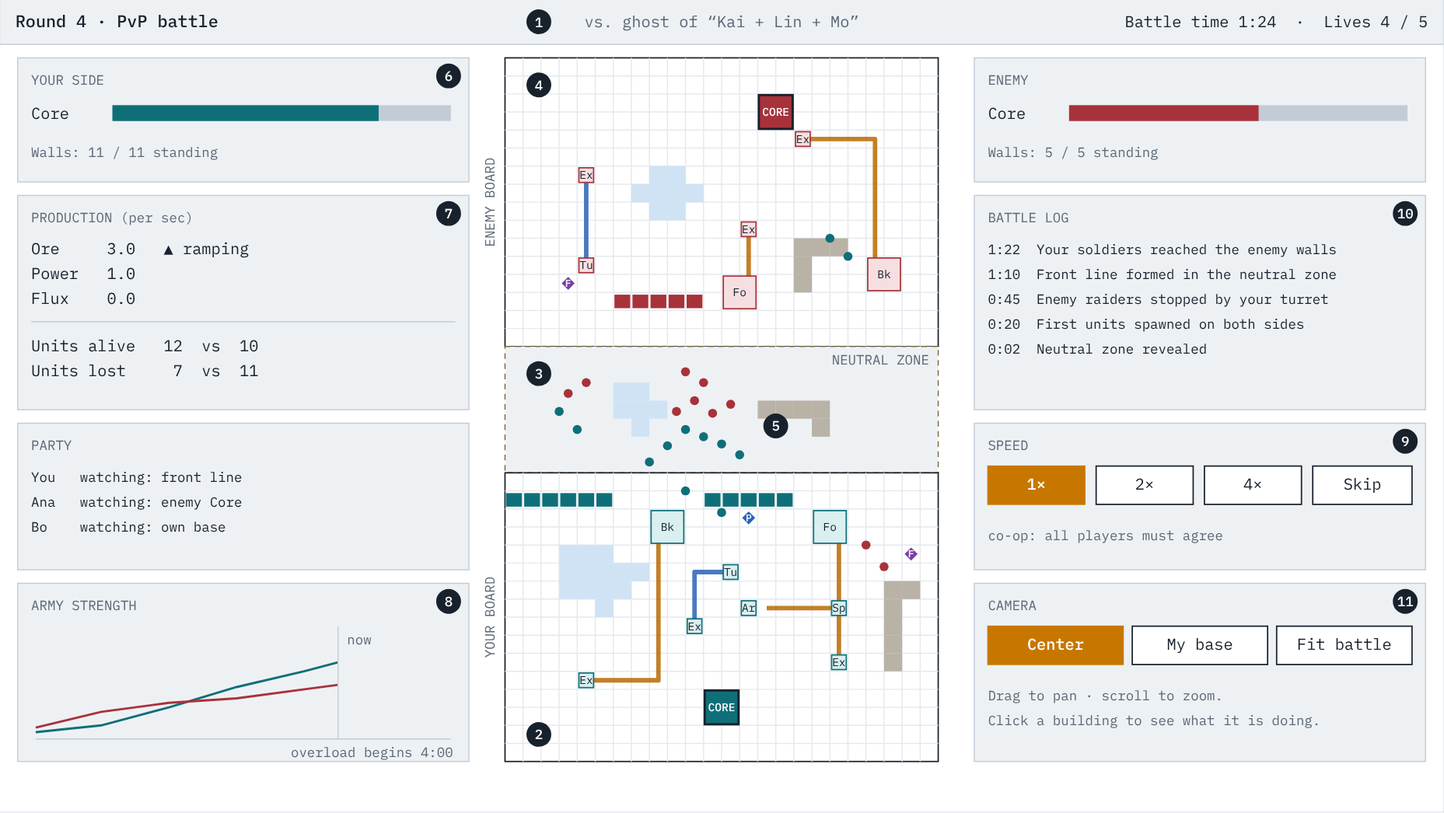
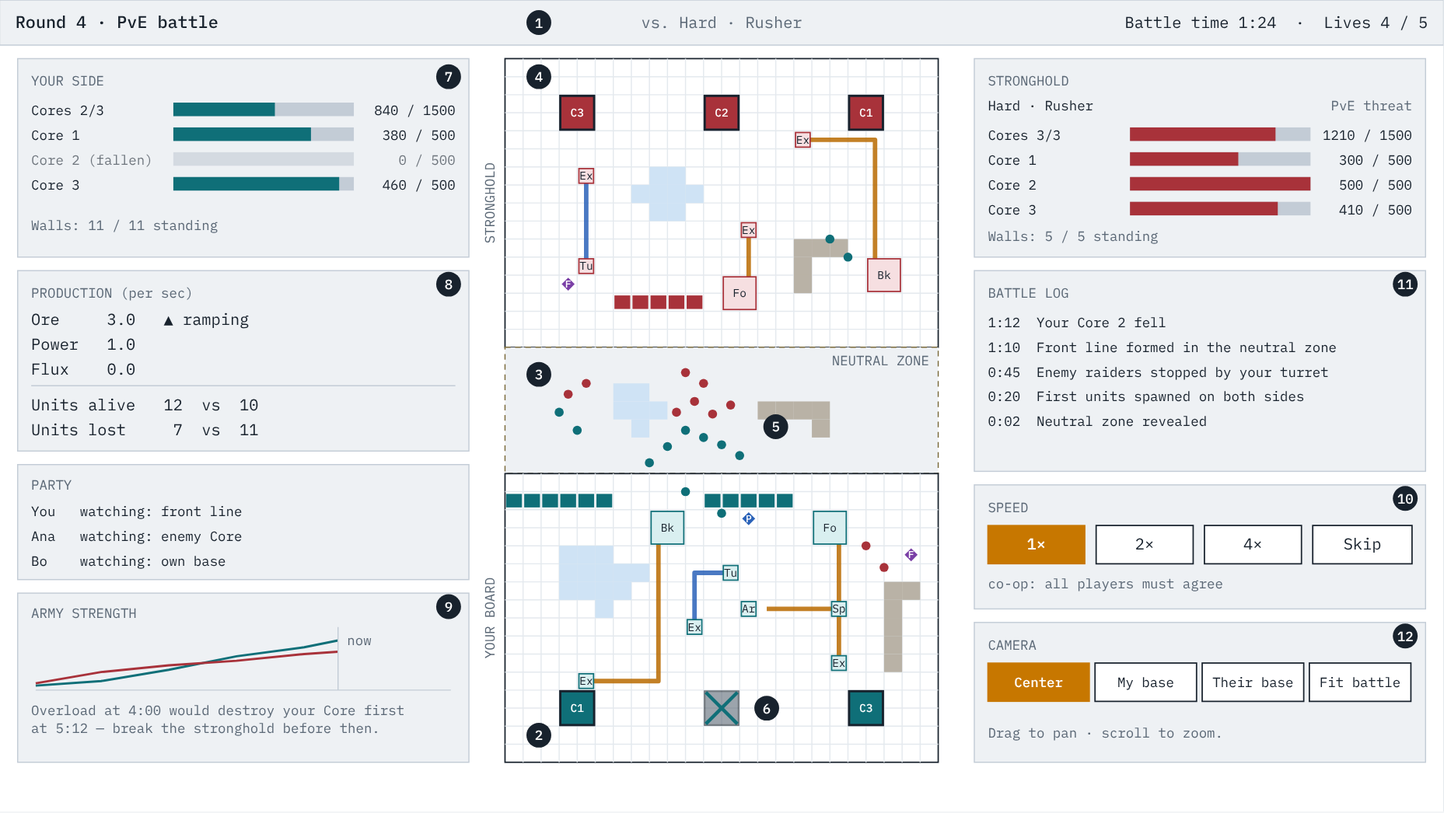
#143: battle and battle summary wireframes show several Cores per side (#223)
Wireframe 1 (battle) shows a three-player party against a stronghold: a total bar and one Core bar per player on each side, a fallen Core, the Overload line, the "Core fell" log entry and My base. Wireframe 8 (battle summary) shows Cores standing, when each Core fell and the deciding ladder step. screens.html, both PNGs (same pixel size) and the README text are updated; the solo case is described in the README.

Docs only.

Part of #143

diff --git a/docs/wireframes/screens.html b/docs/wireframes/screens.html
@@ -66,6 +66,7 @@ svg text { font-family: var(--font-mono); fill: var(--ink); white-space: pre; }
 .wall { fill: var(--ally); } .wall.e { fill: var(--enemy); }
 .core { fill: var(--ally); stroke: var(--ink); stroke-width: 2; } .core.e { fill: var(--enemy); }
 .core-t { fill: var(--sheet); font-size: 8.5px; font-weight: 500; }
+.core-fell { fill: var(--muted); opacity: 0.6; stroke: var(--ink); stroke-width: 1.5; } .fell-x { stroke: var(--ally); stroke-width: 3; } .fell-x.e { stroke: var(--enemy); }
 .c-ore { stroke: var(--ore); } .c-power { stroke: var(--power); } .c-flux { stroke: var(--flux); }
 .cond { fill: none; stroke-width: 4; stroke-linejoin: round; opacity: 0.85; }
 .n-ore { fill: var(--ore); } .n-power { fill: var(--power); } .n-flux { fill: var(--flux); }
@@ -107,20 +108,21 @@ svg text { font-family: var(--font-mono); fill: var(--ink); white-space: pre; }
 
   <section>
     <h2>1. Battle</h2>
-    <p>Nobody gives orders here. The party watches its factory start cold, ramp up, and send units across the neutral zone while the enemy does the same.</p>
-    <div class="sheet"><svg id="s-battle" class="big" viewBox="0 0 1280 720" role="img" aria-label="Battle screen wireframe: the enemy board at the top, a neutral zone in the middle, the party's board at the bottom, with status panels on both sides."></svg></div>
+    <p>Nobody gives orders here. The party watches its factory start cold, ramp up, and send units across the neutral zone while the enemy does the same. Each player has their own Core, so each side shows one health bar per Core under a total. The sketch is a three-player party; a solo battle shows one bar per side.</p>
+    <div class="sheet"><svg id="s-battle" class="big" viewBox="0 0 1280 720" role="img" aria-label="Battle screen wireframe: the stronghold board at the top, a neutral zone in the middle, the party's board at the bottom with three Cores, one of them fallen, and status panels on both sides with a health bar for each Core."></svg></div>
     <ol class="notes">
       <li>Who you are fighting and what kind of battle it is. A ghost shows the other party's names; a boss says so.</li>
       <li>Your board, at the bottom, exactly as you built it. Conduits light up as resources flow.</li>
       <li>The neutral zone. Its lakes and cliffs are generated for this battle and revealed when it starts. Buildings do nothing here; only units fight.</li>
-      <li>The enemy board, at the top. Your units attack buildings in their way and finally the Core.</li>
+      <li>The enemy board, at the top, with one Core per player. Your units attack buildings in their way and finally the Cores: first the one opposite their owner’s plot, then the nearest still standing.</li>
       <li>Units from both sides meet and form a front line.</li>
-      <li>Your Core's health and how many walls still stand. The enemy's is in the matching panel on the right.</li>
+      <li>A Core that has fallen: greyed out with a cross in its side’s colour. Its player’s buildings stay on the board.</li>
+      <li>The total Core health and how many Cores stand, then one bar per player’s Core, and how many walls still stand. A fallen Core reads “(fallen)”. The enemy’s are in the matching panel on the right. A side loses when all of its Cores are destroyed.</li>
       <li>Live production and army counts, so you can see the ramp.</li>
-      <li>Army strength over time for both sides. Useful afterwards for seeing when you fell behind.</li>
+      <li>Army strength over time for both sides, and, against a PvE stronghold, the Overload line: which side’s last Core Overload would destroy first, and when.</li>
       <li>Speed controls. In co-op, a change applies once everyone agrees.</li>
-      <li>A log of the moments that mattered, such as a junction being destroyed.</li>
-      <li>Camera. It starts at the center of the map, and the view pans and zooms, so a larger map or a four-player battle still works on the same screen.</li>
+      <li>A log of the moments that mattered, such as a junction being destroyed or a Core falling (“Your Core 2 fell”).</li>
+      <li>Camera presets (Center, My base, Their base, Fit battle). It starts at the center of the map, and the view pans and zooms, so a larger map or a four-player battle still works on the same screen.</li>
     </ol>
   </section>
 
@@ -222,9 +224,9 @@ svg text { font-family: var(--font-mono); fill: var(--ink); white-space: pre; }
     <p>Shown when playback ends. It says what happened and why, so the party can decide what to change.</p>
     <div class="sheet"><svg id="s-summary" viewBox="0 0 960 540" role="img" aria-label="Battle summary wireframe: result strip, a chart over time, a small map showing where defenses were breached, per-building totals, costs and rewards, and ready controls."></svg></div>
     <ol class="notes">
-      <li>The result, and in the corner what it cost or paid: lives lost and gold gained. Battle rewards are always gold.</li>
-      <li>Army strength over the battle for both sides, with the moments that mattered marked.</li>
-      <li>Where the enemy got through.</li>
+      <li>The result, and in the corner what it cost or paid: lives lost and gold gained. Battle rewards are always gold. Below it, why it ended: the step of the tiebreak ladder that decided it (here, more Cores standing), the Core health left, how many Cores stand on each side and when each Core fell.</li>
+      <li>Army strength over the battle for both sides, with the moments that mattered marked, including each Core that fell.</li>
+      <li>Where the enemy got through. Fallen Cores are greyed with a cross.</li>
       <li>What each building did.</li>
       <li>What comes next in the round.</li>
       <li>Watch the battle again, or ready up. The party moves on to the event when everyone is ready.</li>
@@ -324,6 +326,17 @@ svg text { font-family: var(--font-mono); fill: var(--ink); white-space: pre; }
       R(g, k.x + 1, k.y + 1, k.w - 2, k.h - 2, "core" + (enemy ? " e" : ""));
       if (!bare) T(g, k.x + k.w / 2, k.y + k.h / 2 + 3.5, "CORE", "core-t", "middle");
     }
+    if (d.cores) d.cores.forEach(function (c) {
+      var k = C(2, c.fr, 2, 2);
+      if (c.fallen) {
+        R(g, k.x + 1, k.y + 1, k.w - 2, k.h - 2, "core-fell");
+        el(g, "line", { x1: k.x + 2, y1: k.y + 2, x2: k.x + k.w - 2, y2: k.y + k.h - 2, class: "fell-x" + (enemy ? " e" : "") });
+        el(g, "line", { x1: k.x + k.w - 2, y1: k.y + 2, x2: k.x + 2, y2: k.y + k.h - 2, class: "fell-x" + (enemy ? " e" : "") });
+      } else {
+        R(g, k.x + 1, k.y + 1, k.w - 2, k.h - 2, "core" + (enemy ? " e" : ""));
+        if (!bare) T(g, k.x + k.w / 2, k.y + k.h / 2 + 3.5, "C" + c.n, "core-t", "middle");
+      }
+    });
     return g;
   }
   function units(p, list, cls, r) { list.forEach(function (u) { el(p, "circle", { cx: u[0], cy: u[1], r: r || 3.5, class: cls }); }); }
@@ -331,53 +344,69 @@ svg text { font-family: var(--font-mono); fill: var(--ink); white-space: pre; }
   // ================= 1. BATTLE =================
   (function () {
     var s = document.getElementById("s-battle"), S = 16, bx = 448, by = 52;
-    topbar(s, "Round 4 · PvP battle", "vs. ghost of “Kai + Lin + Mo”", "Battle time 1:24  ·  Lives 4 / 5", 1280, 720);
+    // A party battle against a PvE stronghold, three Cores per side. Each Core sits in its player's plot (plots of 8 columns).
+    var myB = Object.assign({}, mine, { core: null, cores: [{ fr: 3, n: 1 }, { fr: 11, n: 2, fallen: true }, { fr: 19, n: 3 }] });
+    var foeB = Object.assign({}, theirs, { core: null, cores: [{ fr: 3, n: 1 }, { fr: 11, n: 2 }, { fr: 19, n: 3 }] });
+    topbar(s, "Round 4 · PvE battle", "vs. Hard · Rusher", "Battle time 1:24  ·  Lives 4 / 5", 1280, 720);
     var zy = by + W * S, zh = 7 * S, my = zy + zh, bw = H * S;
-    board(s, bx, by, S, theirs, true);
+    board(s, bx, by, S, foeB, true);
     R(s, bx, zy, bw, zh, "zone");
     [[6,2],[7,2],[6,3],[7,3],[8,3],[7,4]].forEach(function (c) { R(s, bx + c[0] * S, zy + c[1] * S, S, S, "water"); });
     [[14,3],[15,3],[16,3],[17,3],[17,4]].forEach(function (c) { R(s, bx + c[0] * S, zy + c[1] * S, S, S, "cliff"); });
     T(s, bx + bw - 8, zy + 16, "NEUTRAL ZONE", "ts tm", "end");
-    board(s, bx, my, S, mine, false);
+    board(s, bx, my, S, myB, false);
     function side(label, y) { var x = bx - 9; T(s, x, y, label, "ts tm", "middle").setAttribute("transform", "rotate(-90 " + x + " " + y + ")"); }
-    side("ENEMY BOARD", by + W * S / 2); side("YOUR BOARD", my + W * S / 2);
+    side("STRONGHOLD", by + W * S / 2); side("YOUR BOARD", my + W * S / 2);
     function U(list, cls) { units(s, list.map(function (u) { return [bx + u[0] * S, by + u[1] * S]; }), cls, 4); }
     U([[9,21.5],[10,20.6],[11,21],[12,21.4],[8,22.4],[13,22],[10,24],[12,25.2],[3,19.6],[4,20.6],[18,10],[19,11]], "u-a");
     U([[9.5,19.6],[10.5,19],[11.5,19.7],[12.5,19.2],[11,18],[10,17.4],[3.5,18.6],[4.5,18],[20,27],[21,28.2]], "u-e");
+    var lx = 16, pw = 400, rx = 864;
+    // One Core bar row: label, bar, numbers. A fallen Core is dimmed and reads "(fallen)".
+    function coreRow(x, y, label, hp, max, cls, dim) {
+      var g = el(s, "g", dim ? { opacity: 0.6 } : {});
+      T(g, x + 12, y, label, "ts"); R(g, x + 138, y - 11, 160, 12, "hp"); R(g, x + 138, y - 11, Math.round(160 * hp / max), 12, cls);
+      T(g, x + pw - 12, y, hp + " / " + max, "ts", "end");
+    }
+    function coreBars(x, y, total, rows, cls) {
+      coreRow(x, y, total[0], total[1], total[2], cls);
+      rows.forEach(function (r, i) { coreRow(x, y + 22 * (i + 1), r[0], r[1], 500, cls, r[1] === 0); });
+    }
     // left: your side
-    var lx = 16, pw = 400;
-    R(s, lx, 52, pw, 110, "panel"); T(s, lx + 12, 76, "YOUR SIDE", "ts tm");
-    T(s, lx + 12, 106, "Core", "t"); R(s, lx + 84, 94, 300, 14, "hp"); R(s, lx + 84, 94, 236, 14, "hp-a");
-    T(s, lx + 12, 140, "Walls: 11 / 11 standing", "ts tm");
-    R(s, lx, 174, pw, 190, "panel"); T(s, lx + 12, 198, "PRODUCTION (per sec)", "ts tm");
-    lines(s, lx + 12, 226, ["Ore     3.0   ▲ ramping", "Power   1.0", "Flux    0.0"], "t", 22);
-    el(s, "line", { x1: lx + 12, y1: 286, x2: lx + pw - 12, y2: 286, class: "rule" });
-    lines(s, lx + 12, 312, ["Units alive   12  vs  10", "Units lost     7  vs  11"], "t", 22);
-    R(s, lx, 376, pw, 130, "panel"); T(s, lx + 12, 400, "PARTY", "ts tm");
-    lines(s, lx + 12, 428, ["You   watching: front line", "Ana   watching: enemy Core", "Bo    watching: own base"], "ts", 22);
-    R(s, lx, 518, pw, 158, "panel"); T(s, lx + 12, 542, "ARMY STRENGTH", "ts tm");
-    el(s, "line", { x1: lx + 16, y1: 656, x2: lx + pw - 16, y2: 656, class: "rule" });
-    el(s, "polyline", { class: "chart-a", points: "32,650 90,644 150,628 210,610 270,596 300,588" });
-    el(s, "polyline", { class: "chart-e", points: "32,646 90,632 150,624 210,620 270,612 300,608" });
-    el(s, "line", { x1: 300, y1: 556, x2: 300, y2: 656, class: "rule" }); T(s, 308, 572, "now", "ts tm");
-    T(s, lx + pw - 14, 672, "overload begins 4:00", "ts tm", "end");
-    // right: enemy and controls
-    var rx = 864;
-    R(s, rx, 52, pw, 110, "panel"); T(s, rx + 12, 76, "ENEMY", "ts tm");
-    T(s, rx + 12, 106, "Core", "t"); R(s, rx + 84, 94, 300, 14, "hp"); R(s, rx + 84, 94, 168, 14, "hp-e");
-    T(s, rx + 12, 140, "Walls: 5 / 5 standing", "ts tm");
-    R(s, rx, 174, pw, 190, "panel"); T(s, rx + 12, 198, "BATTLE LOG", "ts tm");
-    lines(s, rx + 12, 226, ["1:22  Your soldiers reached the enemy walls", "1:10  Front line formed in the neutral zone", "0:45  Enemy raiders stopped by your turret", "0:20  First units spawned on both sides", "0:02  Neutral zone revealed"], "ts", 22);
-    R(s, rx, 376, pw, 130, "panel"); T(s, rx + 12, 400, "SPEED", "ts tm");
-    btn(s, rx + 12, 414, 86, 34, "1×", true); btn(s, rx + 108, 414, 86, 34, "2×"); btn(s, rx + 204, 414, 86, 34, "4×"); btn(s, rx + 300, 414, 88, 34, "Skip");
-    T(s, rx + 12, 480, "co-op: all players must agree", "ts tm");
-    R(s, rx, 518, pw, 158, "panel"); T(s, rx + 12, 542, "CAMERA", "ts tm");
-    btn(s, rx + 12, 556, 120, 34, "Center", true); btn(s, rx + 140, 556, 120, 34, "My base"); btn(s, rx + 268, 556, 120, 34, "Fit battle");
-    lines(s, rx + 12, 622, ["Drag to pan · scroll to zoom.", "Click a building to see what it is doing."], "ts tm", 22);
+    R(s, lx, 52, pw, 176, "panel"); T(s, lx + 12, 76, "YOUR SIDE", "ts tm");
+    coreBars(lx, 102, ["Cores 2/3", 840, 1500], [["Core 1", 380], ["Core 2 (fallen)", 0], ["Core 3", 460]], "hp-a");
+    T(s, lx + 12, 204, "Walls: 11 / 11 standing", "ts tm");
+    R(s, lx, 240, pw, 160, "panel"); T(s, lx + 12, 264, "PRODUCTION (per sec)", "ts tm");
+    lines(s, lx + 12, 288, ["Ore     3.0   ▲ ramping", "Power   1.0", "Flux    0.0"], "t", 22);
+    el(s, "line", { x1: lx + 12, y1: 342, x2: lx + pw - 12, y2: 342, class: "rule" });
+    lines(s, lx + 12, 364, ["Units alive   12  vs  10", "Units lost     7  vs  11"], "t", 22);
+    R(s, lx, 412, pw, 102, "panel"); T(s, lx + 12, 434, "PARTY", "ts tm");
+    lines(s, lx + 12, 458, ["You   watching: front line", "Ana   watching: enemy Core", "Bo    watching: own base"], "ts", 22);
+    R(s, lx, 526, pw, 150, "panel"); T(s, lx + 12, 548, "ARMY STRENGTH", "ts tm");
+    el(s, "line", { x1: lx + 16, y1: 612, x2: lx + pw - 16, y2: 612, class: "rule" });
+    el(s, "polyline", { class: "chart-a", points: "32,608 90,604 150,594 210,582 270,574 300,568" });
+    el(s, "polyline", { class: "chart-e", points: "32,606 90,596 150,590 210,586 270,580 300,578" });
+    el(s, "line", { x1: 300, y1: 556, x2: 300, y2: 612, class: "rule" }); T(s, 308, 572, "now", "ts tm");
+    lines(s, lx + 12, 634, ["Overload at 4:00 would destroy your Core first", "at 5:12 — break the stronghold before then."], "ts tm", 16);
+    // right: stronghold and controls
+    R(s, rx, 52, pw, 176, "panel"); T(s, rx + 12, 76, "STRONGHOLD", "ts tm");
+    T(s, rx + 12, 98, "Hard · Rusher", "ts"); T(s, rx + pw - 12, 98, "PvE threat", "ts tm", "end");
+    coreBars(rx, 124, ["Cores 3/3", 1210, 1500], [["Core 1", 300], ["Core 2", 500], ["Core 3", 410]], "hp-e");
+    T(s, rx + 12, 214, "Walls: 5 / 5 standing", "ts tm");
+    R(s, rx, 240, pw, 178, "panel"); T(s, rx + 12, 264, "BATTLE LOG", "ts tm");
+    lines(s, rx + 12, 290, ["1:12  Your Core 2 fell", "1:10  Front line formed in the neutral zone", "0:45  Enemy raiders stopped by your turret", "0:20  First units spawned on both sides", "0:02  Neutral zone revealed"], "ts", 22);
+    R(s, rx, 430, pw, 110, "panel"); T(s, rx + 12, 454, "SPEED", "ts tm");
+    btn(s, rx + 12, 466, 86, 34, "1×", true); btn(s, rx + 108, 466, 86, 34, "2×"); btn(s, rx + 204, 466, 86, 34, "4×"); btn(s, rx + 300, 466, 88, 34, "Skip");
+    T(s, rx + 12, 522, "co-op: all players must agree", "ts tm");
+    R(s, rx, 552, pw, 124, "panel"); T(s, rx + 12, 576, "CAMERA", "ts tm");
+    [["Center", true], ["My base"], ["Their base"], ["Fit battle"]].forEach(function (b, i) {
+      R(s, rx + 12 + i * 95, 588, 90, 34, b[1] ? "btn-go" : "btn"); T(s, rx + 57 + i * 95, 609, b[0], b[1] ? "ts go-t" : "ts", "middle");
+    });
+    T(s, rx + 12, 654, "Drag to pan · scroll to zoom.", "ts tm");
     // marks
-    mark(s, 478, 20, 1, 11); mark(s, bx + 30, my + W * S - 24, 2, 11); mark(s, bx + 30, zy + 24, 3, 11); mark(s, bx + 30, by + 24, 4, 11);
-    mark(s, bx + 15 * S, by + 20.4 * S, 5, 11); mark(s, lx + pw - 18, 68, 6, 11); mark(s, lx + pw - 18, 190, 7, 11); mark(s, lx + pw - 18, 534, 8, 11);
-    mark(s, rx + pw - 18, 392, 9, 11); mark(s, rx + pw - 18, 190, 10, 11); mark(s, rx + pw - 18, 534, 11, 11);
+    mark(s, 478, 20, 1, 11); mark(s, bx + 30, my + W * S - 24, 2, 11); mark(s, bx + 30, zy + 24, 3, 11); mark(s, bx + 30, by + 16, 4, 11);
+    mark(s, bx + 15 * S, by + 20.4 * S, 5, 11); mark(s, bx + 14 * S + 8, my + 12 * S + 16, 6, 11);
+    mark(s, lx + pw - 18, 68, 7, 11); mark(s, lx + pw - 18, 252, 8, 11); mark(s, lx + pw - 18, 538, 9, 11);
+    mark(s, rx + pw - 18, 442, 10, 11); mark(s, rx + pw - 18, 252, 11, 11); mark(s, rx + pw - 18, 564, 12, 11);
   })();
 
   // ================= 2. EVENT =================
@@ -640,24 +669,29 @@ svg text { font-family: var(--font-mono); fill: var(--ink); white-space: pre; }
   // ================= 8. BATTLE SUMMARY =================
   (function () {
     var s = document.getElementById("s-summary");
+    // A lost party battle against a ghost, three Cores per side: decided at the time limit by Cores standing.
+    var myS = Object.assign({}, mine, { core: null, cores: [{ fr: 3, n: 1, fallen: true }, { fr: 11, n: 2, fallen: true }, { fr: 19, n: 3 }] });
     topbar(s, "Round 4 · PvP battle · Summary", "", "Lives 3 / 5");
-    R(s, 24, 48, 912, 44, "panel"); T(s, 38, 77, "Defeat · vs. ghost of “Kai + Lin + Mo”", "tb"); T(s, 922, 75, "−1 life   ·   +3 gold each", "t", "end");
-    R(s, 24, 104, 440, 250, "panel"); T(s, 36, 124, "ARMY STRENGTH OVER TIME", "ts tm");
+    R(s, 24, 48, 912, 94, "panel"); T(s, 38, 77, "Defeat · vs. ghost of “Kai + Lin + Mo”", "tb"); T(s, 922, 75, "−1 life   ·   +3 gold each", "t", "end");
+    lines(s, 38, 98, ["Time ran out. The side with more Cores standing wins: yours 1, theirs 3.", "Battle time 6:00. Your Core 340 / 1500, theirs 1320 / 1500.", "Cores standing: yours 1 / 3, theirs 3 / 3. Your Core 1 fell at 2:10. Your Core 2 fell at 3:05."], "ts", 16);
+    R(s, 24, 154, 440, 200, "panel"); T(s, 36, 174, "ARMY STRENGTH OVER TIME", "ts tm");
     el(s, "line", { x1: 40, y1: 330, x2: 448, y2: 330, class: "rule" });
-    el(s, "polyline", { class: "chart-a", points: "40,326 100,318 160,300 220,290 280,296 340,306 448,318" });
-    el(s, "polyline", { class: "chart-e", points: "40,322 100,310 160,300 220,280 280,250 340,215 448,180" });
-    el(s, "line", { x1: 220, y1: 140, x2: 220, y2: 330, class: "rule" }); T(s, 226, 152, "1:05 your splitter destroyed", "ts tm");
-    T(s, 446, 172, "3:40 Core destroyed", "ts tm", "end"); T(s, 40, 346, "teal: you   ·   red: enemy", "ts tm");
-    R(s, 476, 104, 220, 250, "panel"); T(s, 488, 124, "WHERE YOU WERE BREACHED", "ts tm");
-    board(s, 490, 136, 8, mine, false, true); R(s, 490 + 16 * 8 - 2, 136 + 4, 68, 20, "sel");
-    lines(s, 488, 290, ["Enemy units came through", "the open right flank and", "cut the splitter at 1:05."], "ts", 16);
-    R(s, 708, 104, 228, 250, "panel"); T(s, 720, 124, "YOUR BUILDINGS", "ts tm");
-    lines(s, 720, 150, ["Barracks    14 soldiers", "Foundry      3 heavies", "Turret      22 kills", "Armory       2 upgrades", "Walls        5 of 11 lost", "Splitter     destroyed 1:05"], "t", 22);
+    el(s, "polyline", { class: "chart-a", points: "40,322 100,316 160,304 220,300 280,306 340,312 448,320" });
+    el(s, "polyline", { class: "chart-e", points: "40,320 100,312 160,300 220,288 280,270 340,254 448,246" });
+    el(s, "line", { x1: 114, y1: 192, x2: 114, y2: 330, class: "rule" }); T(s, 120, 204, "1:05 your splitter destroyed", "ts tm");
+    el(s, "line", { x1: 188, y1: 210, x2: 188, y2: 330, class: "rule" }); T(s, 194, 222, "2:10 your Core 1 fell", "ts tm");
+    el(s, "line", { x1: 250, y1: 228, x2: 250, y2: 330, class: "rule" }); T(s, 256, 240, "3:05 your Core 2 fell", "ts tm");
+    T(s, 40, 346, "teal: you   ·   red: enemy", "ts tm");
+    R(s, 476, 154, 220, 200, "panel"); T(s, 488, 174, "WHERE YOU WERE BREACHED", "ts tm");
+    board(s, 490, 184, 7, myS, false, true); R(s, 490 + 16 * 7 - 2, 184 + 4, 60, 18, "sel");
+    lines(s, 488, 314, ["Enemy units came through the", "open right flank, cut the splitter", "and took Cores 1 and 2."], "ts", 14);
+    R(s, 708, 154, 228, 200, "panel"); T(s, 720, 174, "YOUR BUILDINGS", "ts tm");
+    lines(s, 720, 198, ["Barracks    14 soldiers", "Foundry      3 heavies", "Turret      22 kills", "Armory       2 upgrades", "Walls        5 of 11 lost", "Splitter     destroyed 1:05"], "t", 22);
     R(s, 24, 366, 672, 150, "panel"); T(s, 36, 386, "NEXT", "ts tm");
     ["Event", "Shop + Build", "PvE battle (round 5)"].forEach(function (k, i) { R(s, 36 + i * 220, 404, 200, 44, "box"); T(s, 136 + i * 220, 431, k, "t", "middle"); if (i < 2) T(s, 246 + i * 220, 431, "→", "t tm", "middle"); });
     T(s, 36, 494, "Your factory was saved as a ghost for other parties to fight.", "ts tm");
     R(s, 708, 366, 228, 150, "panel"); btn(s, 720, 382, 204, 36, "Watch again"); btn(s, 720, 428, 204, 36, "Ready", true); T(s, 720, 494, "1 of 3 ready", "ts tm");
-    mark(s, 30, 56, 1); mark(s, 450, 118, 2); mark(s, 682, 118, 3); mark(s, 922, 118, 4); mark(s, 682, 380, 5); mark(s, 922, 478, 6);
+    mark(s, 30, 56, 1); mark(s, 450, 168, 2); mark(s, 682, 168, 3); mark(s, 922, 168, 4); mark(s, 682, 380, 5); mark(s, 922, 478, 6);
   })();
 
   // ================= 9. RUN OVER =================

diff --git a/docs/wireframes/README.md b/docs/wireframes/README.md
@@ -13,8 +13,8 @@ starting kit, threat pips, "an even chance to double it", "overload begins
 The specs are the source of truth. Where a wireframe and a spec disagree,
 the spec wins and the wireframe should be corrected.
 
-**Most images predate the per-player design (issue #124); 3, 4 and 6 are
-redrawn.** The others still show
+**Most images predate the per-player design (issue #124); 1, 3, 4, 6 and 8
+are redrawn.** The others still show
 one shared board, one Core per side and a vote on the Core position. The text below has been updated to the current design
 (each player has their own plot and Core, builds only there, and can link to
 a neighbour across the plot border; there is no giving); the images and
@@ -39,21 +39,22 @@ are coloured by resource.
 
 ## 1. Battle
 
-Nobody gives orders here. The party watches its factory start cold, ramp up, and send units across the neutral zone while the enemy does the same.
+Nobody gives orders here. The party watches its factory start cold, ramp up, and send units across the neutral zone while the enemy does the same. Each player has their own Core, so each side shows one health bar per Core under a total. The image is a three-player party against a PvE stronghold, with one of the party's Cores fallen; a solo battle shows one bar per side, with no total above it.
 
 ![Battle screen wireframe](1-battle.png)
 
 1. Who you are fighting and what kind of battle it is. A ghost shows the other party's names; a boss says so.
 2. Your board, at the bottom, exactly as you built it. Conduits light up as resources flow.
 3. The neutral zone. Its lakes and cliffs are generated for this battle and revealed when it starts. Nothing can be built here. Turrets can shoot enemy units in it; otherwise only units fight here.
-4. The enemy board, at the top. Your units attack buildings in their way and finally the enemy Cores: first the one opposite their owner's plot, then the nearest still standing.
+4. The enemy board, at the top, with one Core per player. Your units attack buildings in their way and finally the enemy Cores: first the one opposite their owner's plot, then the nearest still standing.
 5. Units from both sides meet and form a front line.
-6. The health of every Core on your side, one bar per player, and how many walls still stand. The enemy's is in the matching panel on the right. A side loses when all of its Cores are destroyed. (The image shows one Core bar per side; it is to be redrawn.)
-7. Live production and army counts, so you can see the ramp.
-8. Army strength over time for both sides. Useful afterwards for seeing when you fell behind.
-9. Speed controls. In co-op, a change applies once everyone agrees.
-10. A log of the moments that mattered, such as a junction being destroyed.
-11. Camera. It starts at the center of the map, and the view pans and zooms, so a larger map or a four-player battle still works on the same screen.
+6. A Core that has fallen: greyed out with a cross in its side's colour. Its player's buildings stay on the board.
+7. The total Core health and how many Cores stand ("Cores 2/3"), then one bar per player's Core ("Core 2 (fallen)" once it is destroyed), and how many walls still stand. The enemy's are in the matching panel on the right. A side loses when all of its Cores are destroyed. With a single Core the panel shows one bar, as in a solo battle.
+8. Live production and army counts, so you can see the ramp.
+9. Army strength over time for both sides. Against a PvE stronghold the Overload line below it says which side's last Core Overload would destroy first, and when ("Overload at 4:00 would destroy your Core first at 5:12"). There is no such line against a ghost.
+10. Speed controls. In co-op, a change applies once everyone agrees.
+11. A log of the moments that mattered, such as a junction being destroyed or a Core falling ("Your Core 2 fell"; with a single Core, "Your Core destroyed").
+12. Camera presets: Center, My base, Their base and Fit battle. It starts at the center of the map, and the view pans and zooms, so a larger map or a four-player battle still works on the same screen.
 
 ## 2. Event choice
 
@@ -149,9 +150,9 @@ Shown when playback ends. It says what happened and why, so the party can decide
 
 ![Battle summary screen wireframe](8-battle-summary.png)
 
-1. The result, and in the corner what it cost or paid: lives lost and gold gained. Battle rewards are always gold.
-2. Army strength over the battle for both sides, with the moments that mattered marked.
-3. Where the enemy got through.
+1. The result, and in the corner what it cost or paid: lives lost and gold gained. Battle rewards are always gold. Below it, why the battle ended, naming the step of the tiebreak ladder that decided it (at the time limit: more Cores standing, then the larger share of total Core health left), the Core health left on each side, how many Cores stand on each side and when each Core fell. The image shows a lost battle decided by Cores standing (1 against 3). A solo battle has one Core per side, so the Cores-standing line is left out.
+2. Army strength over the battle for both sides, with the moments that mattered marked, including each Core that fell.
+3. Where the enemy got through. Fallen Cores are greyed with a cross.
 4. What each building did.
 5. What comes next in the round.
 6. Watch the battle again, or ready up. The party moves on to the event when everyone is ready.
